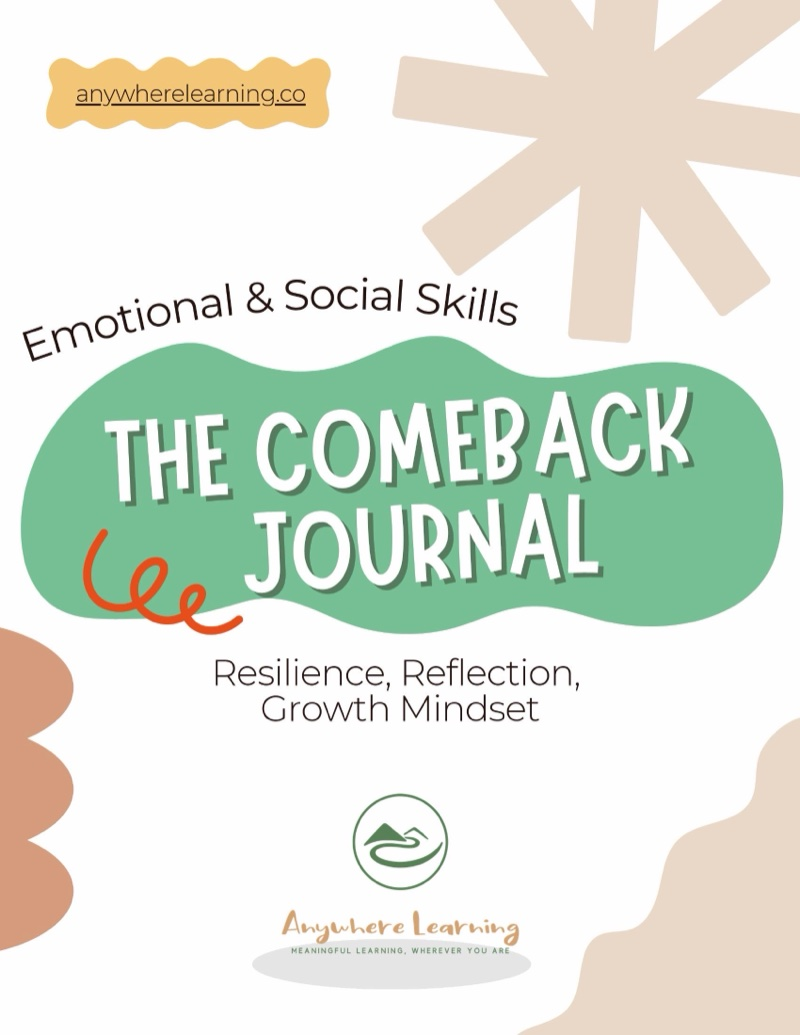
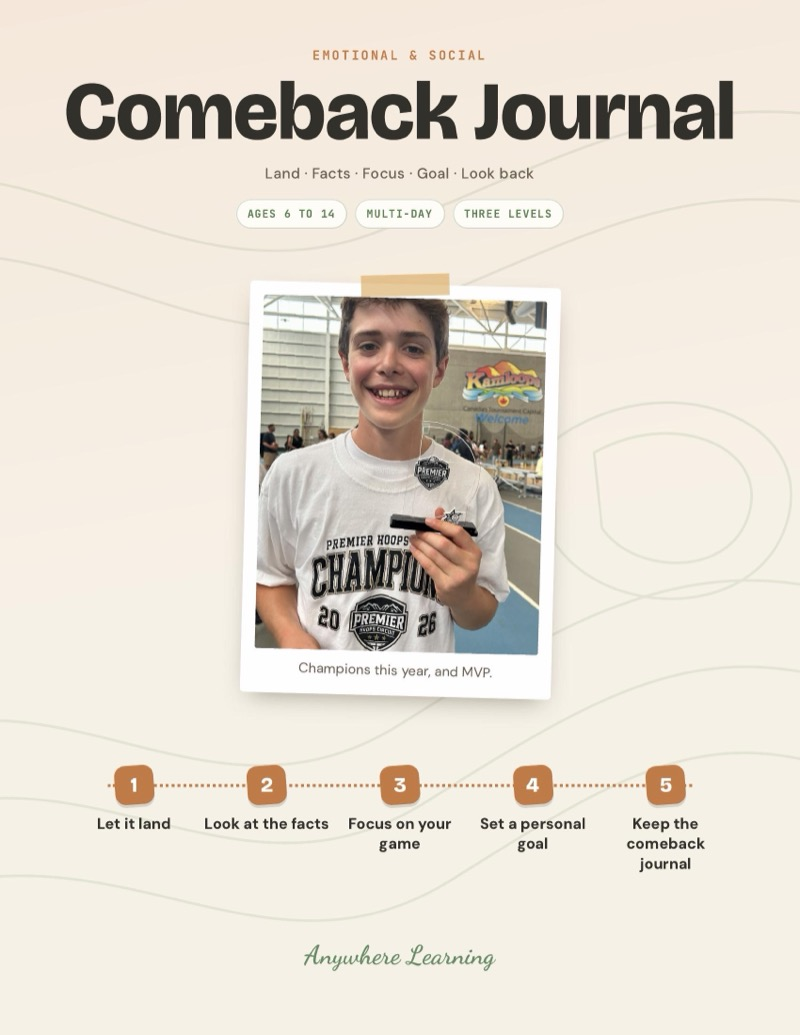
Comeback Journal: redesigned guide absorbing Disappointment Lab, basketball comeback story and MVP photo, ages 6-14; retire Disappointment Lab with redirect

diff --git a/scripts/seed.ts b/scripts/seed.ts
@@ -138,8 +138,8 @@ async function seed() {
     { name: 'The Boredom Toolkit', slug: 'boredom-toolkit', description: 'Build the skill of handling boredom without a screen. Real toolkit, a no-screens stretch, and a log of what they made.', shortDescription: 'Help kids handle boredom without a screen.', priceCents: 599, compareAtPriceCents: null, stripePriceId: 'price_1TdZpfAkIBECpwGm3oxNsgji', blobUrl: 'https://xkj3tzlgu6ylgllk.public.blob.vercel-storage.com/Emotional%20%26%20Social%20Skills%20-%20The%20Boredom%20Toolkit.pdf', imageUrl: '/products/boredom-toolkit.jpg', category: 'emotional-social-skills', isBundle: false, bundleProductIds: null, activityCount: null, ageRange: 'Ages 6–14', sortOrder: 222, active: true },
     { name: 'Frustration Tolerance Cards', slug: 'frustration-tolerance-cards', description: '24 short challenges that are a little frustrating on purpose, each ending with one move your kid practises while the feeling is real. A stone tower that keeps falling, a knot that will not come right, a game where someone breaks the rules on purpose. Small safe doses, on a good day, done together.', shortDescription: 'Frustration tolerance cards for kids ages 6-14: 24 small challenges, each with a named move to practise while the frustration is real. Low prep.', priceCents: 799, compareAtPriceCents: null, stripePriceId: 'price_1UAC8qAkIBECpwGmBF6glDkN', blobUrl: '', imageUrl: '/products/frustration-tolerance-cards.jpg', category: 'emotional-social-skills', isBundle: false, bundleProductIds: null, activityCount: 20, ageRange: 'Ages 6–14', sortOrder: 234, active: true },
     { name: 'Outdoor Movement Challenge Cards', slug: 'outdoor-movement-challenge-cards', description: '24 outdoor physical challenges built on personal records, streaks, and real effort. Kids time a tree sit and beat it a few seconds at a time, race their own lap time, keep a daily outside streak alive with a rain-gear backup, and duel a faster sibling with a handicap they tune until races finish even. No equipment: a body, a timer, and outside.', shortDescription: 'Outdoor movement challenge cards for kids ages 6-14: 24 PR, streak, and adventure challenges. No equipment, low-prep.', priceCents: 799, compareAtPriceCents: null, stripePriceId: 'price_1UAYhLAkIBECpwGmkkUa1I4M', blobUrl: '', imageUrl: '/products/outdoor-movement-challenge-cards.jpg', category: 'outdoor-learning', isBundle: false, bundleProductIds: null, activityCount: 24, ageRange: 'Ages 6–14', sortOrder: 235, active: true },
-    { name: 'The Disappointment Lab', slug: 'disappointment-lab', description: 'Sit through a small planned letdown, name the feeling, and track how long it takes to bounce back.', shortDescription: 'Build resilience by tracking recovery time.', priceCents: 599, compareAtPriceCents: null, stripePriceId: 'price_1TdZpgAkIBECpwGmdBefEIXn', blobUrl: 'https://xkj3tzlgu6ylgllk.public.blob.vercel-storage.com/Emotional%20%26%20Social%20Skills%20-%20The%20Disappointment%20Lab.pdf', imageUrl: '/products/disappointment-lab.jpg', category: 'emotional-social-skills', isBundle: false, bundleProductIds: null, activityCount: null, ageRange: 'Ages 6–14', sortOrder: 223, active: true },
-    { name: 'The Comeback Journal', slug: 'comeback-journal', description: 'Take a real flop, break it down without spiraling, pull out the lesson, pick the next move. Build a comeback journal habit.', shortDescription: 'Process real flops and pick the next move.', priceCents: 599, compareAtPriceCents: null, stripePriceId: 'price_1TdZphAkIBECpwGmkbMH03LR', blobUrl: 'https://xkj3tzlgu6ylgllk.public.blob.vercel-storage.com/Emotional%20%26%20Social%20Skills%20-%20The%20Comeback%20Journal.pdf', imageUrl: '/products/comeback-journal.jpg', category: 'emotional-social-skills', isBundle: false, bundleProductIds: null, activityCount: null, ageRange: 'Ages 9–14', sortOrder: 224, active: true },
+    { name: 'The Disappointment Lab', slug: 'disappointment-lab', description: 'Sit through a small planned letdown, name the feeling, and track how long it takes to bounce back.', shortDescription: 'Build resilience by tracking recovery time.', priceCents: 599, compareAtPriceCents: null, stripePriceId: 'price_1TdZpgAkIBECpwGmdBefEIXn', blobUrl: 'https://xkj3tzlgu6ylgllk.public.blob.vercel-storage.com/Emotional%20%26%20Social%20Skills%20-%20The%20Disappointment%20Lab.pdf', imageUrl: '/products/disappointment-lab.jpg', category: 'emotional-social-skills', isBundle: false, bundleProductIds: null, activityCount: null, ageRange: 'Ages 6–14', sortOrder: 223, active: false },
+    { name: 'Comeback Journal', slug: 'comeback-journal', description: 'Your kid learns what to do after a letdown, like a lost game or a plan that fell through. They let it land, separate the facts from the story in their head, focus on their own game, set a personal goal for next time and keep a journal that shows how far they have come back.', shortDescription: 'Resilience activity for kids ages 6-14: bounce back from a letdown with facts, a focus on their own game and a personal goal for next time.', priceCents: 599, compareAtPriceCents: null, stripePriceId: 'price_1TdZphAkIBECpwGmkbMH03LR', blobUrl: 'https://xkj3tzlgu6ylgllk.public.blob.vercel-storage.com/Emotional%20%26%20Social%20Skills%20-%20The%20Comeback%20Journal.pdf', imageUrl: '/products/comeback-journal.jpg', category: 'emotional-social-skills', isBundle: false, bundleProductIds: null, activityCount: null, ageRange: 'Ages 6–14', sortOrder: 224, active: true },
     { name: 'Hard Thing Challenge', slug: 'hard-thing-challenge', description: 'Your kid picks one hard thing they cannot do yet and works at it for a whole stretch, like a month or a summer. They set a finish line and checkpoints, practise in small pieces, get through the messy middle where most people quit, and learn the difference between skipping one part and quitting the goal.', shortDescription: 'Perseverance activity for kids ages 6-14: pick one hard thing, set a finish line, get through the messy middle and finish what they started.', priceCents: 599, compareAtPriceCents: null, stripePriceId: 'price_1TdZphAkIBECpwGmehQbYZr2', blobUrl: 'https://xkj3tzlgu6ylgllk.public.blob.vercel-storage.com/Emotional%20%26%20Social%20Skills%20-%20The%20Hard%20Thing%20Challenge.pdf', imageUrl: '/products/hard-thing-challenge.jpg', category: 'emotional-social-skills', isBundle: false, bundleProductIds: null, activityCount: null, ageRange: 'Ages 6–14', sortOrder: 225, active: true },
     { name: 'The Repair Conversation', slug: 'repair-conversation', description: 'Practise what to do after hurting someone: own it, skip excuses, ask what would help, follow through.', shortDescription: 'Own a mistake and repair the relationship.', priceCents: 599, compareAtPriceCents: null, stripePriceId: 'price_1TdZpiAkIBECpwGmg1Xu67b3', blobUrl: 'https://xkj3tzlgu6ylgllk.public.blob.vercel-storage.com/Emotional%20%26%20Social%20Skills%20-%20The%20Repair%20Conversation.pdf', imageUrl: '/products/repair-conversation.jpg', category: 'emotional-social-skills', isBundle: false, bundleProductIds: null, activityCount: null, ageRange: 'Ages 6–14', sortOrder: 226, active: true },
     { name: 'The Kindness Missions', slug: 'kindness-missions', description: 'Build and work through a deck of real-world kindness challenges that take effort and noticing.', shortDescription: 'A deck of real-world kindness missions.', priceCents: 599, compareAtPriceCents: null, stripePriceId: 'price_1TdZpiAkIBECpwGmna3K79c3', blobUrl: 'https://xkj3tzlgu6ylgllk.public.blob.vercel-storage.com/Emotional%20%26%20Social%20Skills%20-%20The%20Kindness%20Missions.pdf', imageUrl: '/products/kindness-missions.jpg', category: 'emotional-social-skills', isBundle: false, bundleProductIds: null, activityCount: null, ageRange: 'Ages 6–14', sortOrder: 227, active: true },

diff --git a/lib/product-descriptions.ts b/lib/product-descriptions.ts
@@ -2632,22 +2632,24 @@ export const productDescriptions: Record<string, ProductDescription> = {
   },
   'comeback-journal': {
     opening:
-      'Your child takes a real flop, breaks down what actually happened without spiraling, pulls out the lesson, and picks the next move. They build a comeback journal habit they can return to for years. Growth mindset on the page, not the poster.',
+      'Your kid learns what to do after a letdown, like a lost game or a plan that fell through. They let it land, separate the facts from the story in their head, focus on their own game, set a personal goal for next time and keep a journal that shows how far they have come back.',
     whatsIncluded: [
-      'Flop debrief framework (what happened, no blame)',
-      'Lesson-pulling prompt: the real takeaway',
-      'Next-move decision step',
-      'Reusable journal template for ongoing use',
-      'Version 2 review of past comebacks',
+      'Five steps, from letting it land to keeping the journal for a season',
+      'Let it land, Facts or story?, My game and Personal goal cards',
+      'A worked example: a basketball team that lost almost every game',
+      'My comeback page, including how many days each letdown lasted',
+      'Three levels per step, from ages 6 to 14',
     ],
-    skillTags: ['Resilience', 'Reflection', 'Growth Mindset'],
+    skillTags: ['Resilience', 'Growth Mindset', 'Self-Reflection', 'Goal Setting', 'Emotional Regulation'],
     insideTheLearning: {
       lead:
-        'Your child keeps a record of things that went wrong and what came next. The skill is looking at their own part in it honestly without spiralling. A flop turns into information, and the inner voice shifts from a verdict to a question.',
+        'After a letdown, the result is often out of their hands. Your kid learns to let the disappointment land, trade the story in their head for the facts, and put their energy into their own game with a small personal goal. Over a season, the journal shows them their letdowns getting shorter.',
       skills: [
-        { skill: 'Resilience', where: 'Learning that a flop is information rather than a verdict on them' },
-        { skill: 'Reflection', where: 'Looking honestly at what they did without falling into a spiral' },
-        { skill: 'Growth Mindset', where: 'Building an inner voice that asks what to learn instead of what is wrong with me' },
+        { skill: 'Resilience', where: 'Coming back after a lost game, a flop or a plan that fell through' },
+        { skill: 'Growth Mindset', where: 'Seeing a letdown as information about what to work on next' },
+        { skill: 'Self-Reflection', where: 'Separating the facts from the story in their head' },
+        { skill: 'Goal Setting', where: 'Small, countable personal goals about their own game' },
+        { skill: 'Emotional Regulation', where: 'Letting disappointment land, then watching it fade faster over time' },
       ],
     },
     format: 'Project Guide',

diff --git a/lib/fallback-products.ts b/lib/fallback-products.ts
@@ -2327,7 +2327,7 @@ export const fallbackProducts: FallbackProduct[] = [
     activityCount: null,
     ageRange: "Ages 6–14",
     sortOrder: 223,
-    active: true,
+    active: false,
     createdAt: new Date("2026-05-29"),
   },
   {
@@ -2355,23 +2355,23 @@ export const fallbackProducts: FallbackProduct[] = [
   },
   {
     id: "fb-comeback-journal",
-    name: "The Comeback Journal",
+    name: "Comeback Journal",
     slug: "comeback-journal",
     description:
-      "Your child takes a real flop, breaks down what actually happened without spiraling, pulls out the lesson, and picks the next move. They build a comeback journal habit they can return to for years. Growth mindset on the page, not the poster.",
+      "Your kid learns what to do after a letdown, like a lost game or a plan that fell through. They let it land, separate the facts from the story in their head, focus on their own game, set a personal goal for next time and keep a journal that shows how far they have come back.",
     shortDescription:
-      "Resilience journal for kids ages 9-14: process real flops, pull out the lesson, and pick the next move. Growth mindset in action.",
+      "Resilience activity for kids ages 6-14: bounce back from a letdown with facts, a focus on their own game and a personal goal for next time.",
     priceCents: 599,
     compareAtPriceCents: null,
     stripePriceId: "price_1TdZphAkIBECpwGmkbMH03LR",
     blobUrl: "https://xkj3tzlgu6ylgllk.public.blob.vercel-storage.com/Emotional%20%26%20Social%20Skills%20-%20The%20Comeback%20Journal.pdf",
-    imageUrl: "/products/comeback-journal.jpg?v=2",
-    previewFile: "Preview Emotional & Social Skills - The Comeback Journal.pdf",
+    imageUrl: "/products/comeback-journal.jpg?v=3",
+    previewFile: "Preview Emotional & Social Skills - The Comeback Journal v3.pdf",
     category: "emotional-social-skills",
     isBundle: false,
     bundleProductIds: null,
     activityCount: null,
-    ageRange: "Ages 9–14",
+    ageRange: "Ages 6–14",
     sortOrder: 224,
     active: true,
     createdAt: new Date("2026-05-29"),

diff --git a/scripts/create-stripe-products.ts b/scripts/create-stripe-products.ts
@@ -121,7 +121,7 @@ const catalog = [
   { slug: 'boredom-toolkit', name: 'The Boredom Toolkit', priceCents: 599, description: 'Build the skill of handling boredom without a screen. Self-direction, creativity, independence.' },
   { slug: 'disappointment-lab', name: 'The Disappointment Lab', priceCents: 599, description: 'Sit through small planned letdowns and track bounce-back time.' },
   { slug: 'frustration-tolerance-cards', name: 'Frustration Tolerance Cards', priceCents: 799, description: 'Frustration tolerance cards for kids ages 6-14: 24 small challenges, each with a named move to practise while the frustration is real. Low prep.' },
-  { slug: 'comeback-journal', name: 'The Comeback Journal', priceCents: 599, description: 'Take a real flop, pull out the lesson, pick the next move.' },
+  { slug: 'comeback-journal', name: 'Comeback Journal', priceCents: 599, description: 'Resilience activity for kids ages 6-14: bounce back from a letdown with facts, a focus on their own game and a personal goal for next time.' },
   { slug: 'hard-thing-challenge', name: 'Hard Thing Challenge', priceCents: 599, description: 'Perseverance activity for kids ages 6-14: pick one hard thing, set a finish line, get through the messy middle and finish what they started.' },
   { slug: 'repair-conversation', name: 'The Repair Conversation', priceCents: 599, description: 'Own a mistake, skip excuses, ask what would help, follow through.' },
   { slug: 'kindness-missions', name: 'The Kindness Missions', priceCents: 599, description: 'A deck of real-world kindness challenges that take effort and noticing.' },

diff --git a/lib/activity-blob-urls.ts b/lib/activity-blob-urls.ts
@@ -26,7 +26,7 @@ export const ACTIVITY_BLOB_URLS: Record<string, string> = {
   "calm-down-toolkit": "https://xkj3tzlgu6ylgllk.public.blob.vercel-storage.com/Emotional%20%26%20Social%20Skills%20-%20The%20Calm-Down%20Toolkit%20v3.pdf",
   "camouflage-challenge": "https://xkj3tzlgu6ylgllk.public.blob.vercel-storage.com/Outdoor%20%26%20Nature%20-%20Camouflage%20Challenge%20v6.pdf",
   "clothing-swap-thrift-math": "https://xkj3tzlgu6ylgllk.public.blob.vercel-storage.com/Real-world%20math%20-%20Clothing%20Swap%20%26%20Thrift%20Math%20v8.pdf",
-  "comeback-journal": "https://xkj3tzlgu6ylgllk.public.blob.vercel-storage.com/Emotional%20%26%20Social%20Skills%20-%20The%20Comeback%20Journal%20v2.pdf",
+  "comeback-journal": "https://xkj3tzlgu6ylgllk.public.blob.vercel-storage.com/Emotional%20%26%20Social%20Skills%20-%20The%20Comeback%20Journal%20v3.pdf",
   "community-impact": "https://xkj3tzlgu6ylgllk.public.blob.vercel-storage.com/Planning%20%26%20Problem-Solving%20Community%20Impact%20Project%20v8.pdf",
   "community-service-business": "https://xkj3tzlgu6ylgllk.public.blob.vercel-storage.com/Entrepreneurship%20-%20Community%20Service%20Business%20v2.pdf",
   "community-tour-guide": "https://xkj3tzlgu6ylgllk.public.blob.vercel-storage.com/Communication%20%26%20Writing%20-%20Community%20Tour%20Guide%20v9.pdf",

diff --git a/lib/roadmap.ts b/lib/roadmap.ts
@@ -243,7 +243,7 @@ export const TERRITORIES: readonly Territory[] = [
     },
     activities: [
       'big-feelings-lab', 'worry-sorter', 'calm-down-toolkit', 'reading-the-room', 'conflict-fix',
-      'repair-conversation', 'kindness-missions', 'disappointment-lab', 'healthy-tech-boundaries',
+      'repair-conversation', 'kindness-missions', 'healthy-tech-boundaries',
       'comeback-journal',
     ],
   },
@@ -269,7 +269,7 @@ export const TERRITORIES: readonly Territory[] = [
     },
     activities: [
       'time-energy-planner', 'travel-day', 'hard-thing-challenge',
-      'boredom-toolkit', 'calm-down-toolkit', 'disappointment-lab', 'comeback-journal',
+      'boredom-toolkit', 'calm-down-toolkit', 'comeback-journal',
       'worry-sorter', 'healthy-tech-boundaries',
     ],
   },

diff --git a/next.config.ts b/next.config.ts
@@ -117,6 +117,9 @@ const nextConfig: NextConfig = {
         permanent: true,
       },
 
+      // Retired Nov 2026: Emotional & Social pass.
+      { source: "/shop/disappointment-lab", destination: "/shop/comeback-journal", permanent: true },
+
       // Retired Nov 2026: Worldschooling pass.
       { source: "/shop/currency-market-math", destination: "/shop/farmers-market-challenge", permanent: true },
       { source: "/shop/people-stories-interview", destination: "/shop/neighbourhood-interview", permanent: true },

diff --git a/lib/activity-effort.ts b/lib/activity-effort.ts
@@ -136,7 +136,7 @@ export const EFFORT_BY_SLUG: Record<string, Effort> = {
   'boredom-toolkit': 'Half-Day',
   'disappointment-lab': 'Project',
   'frustration-tolerance-cards': 'Quick',
-  'comeback-journal': 'Quick',
+  'comeback-journal': 'Project',
   'hard-thing-challenge': 'Project',
   'repair-conversation': 'Quick',
   'kindness-missions': 'Project',
